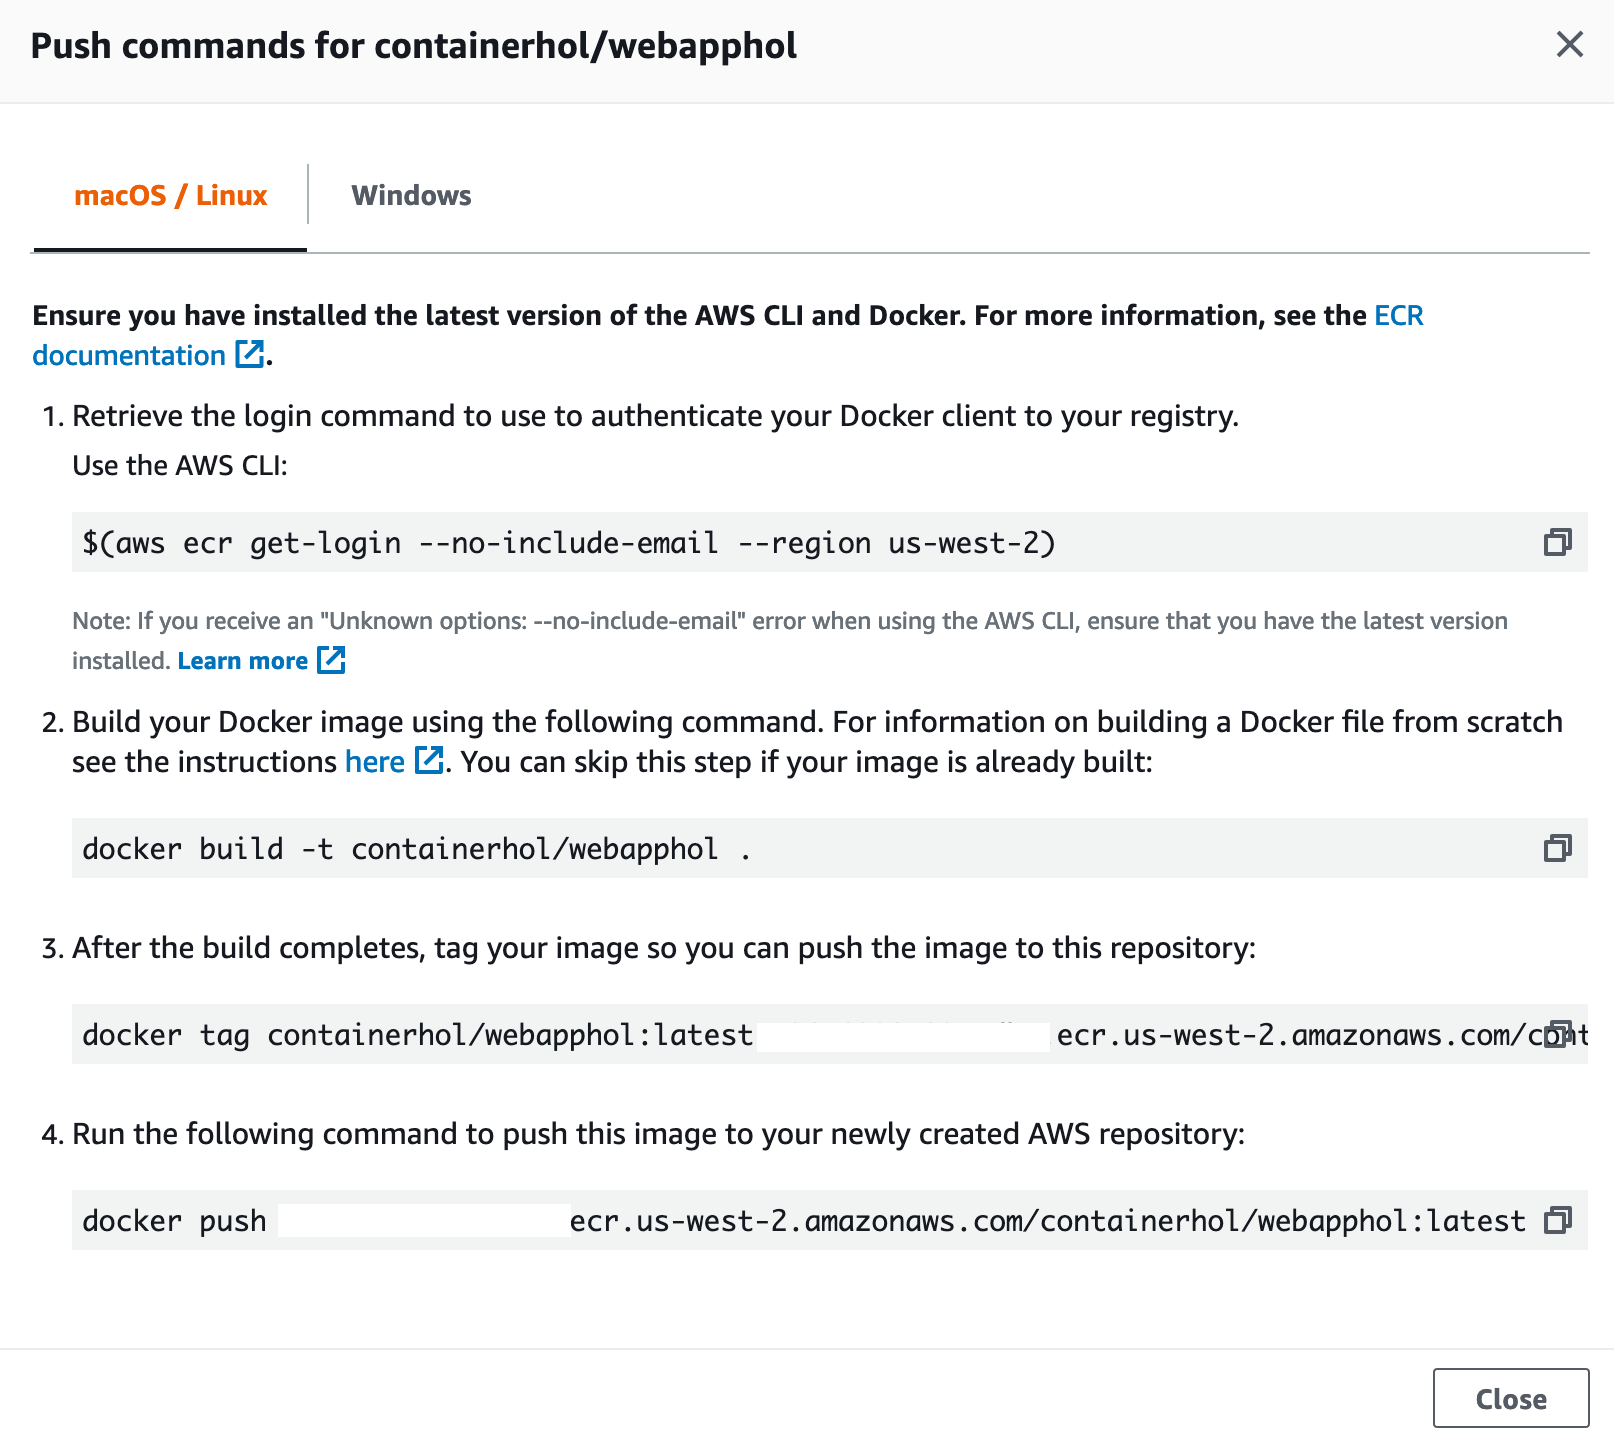
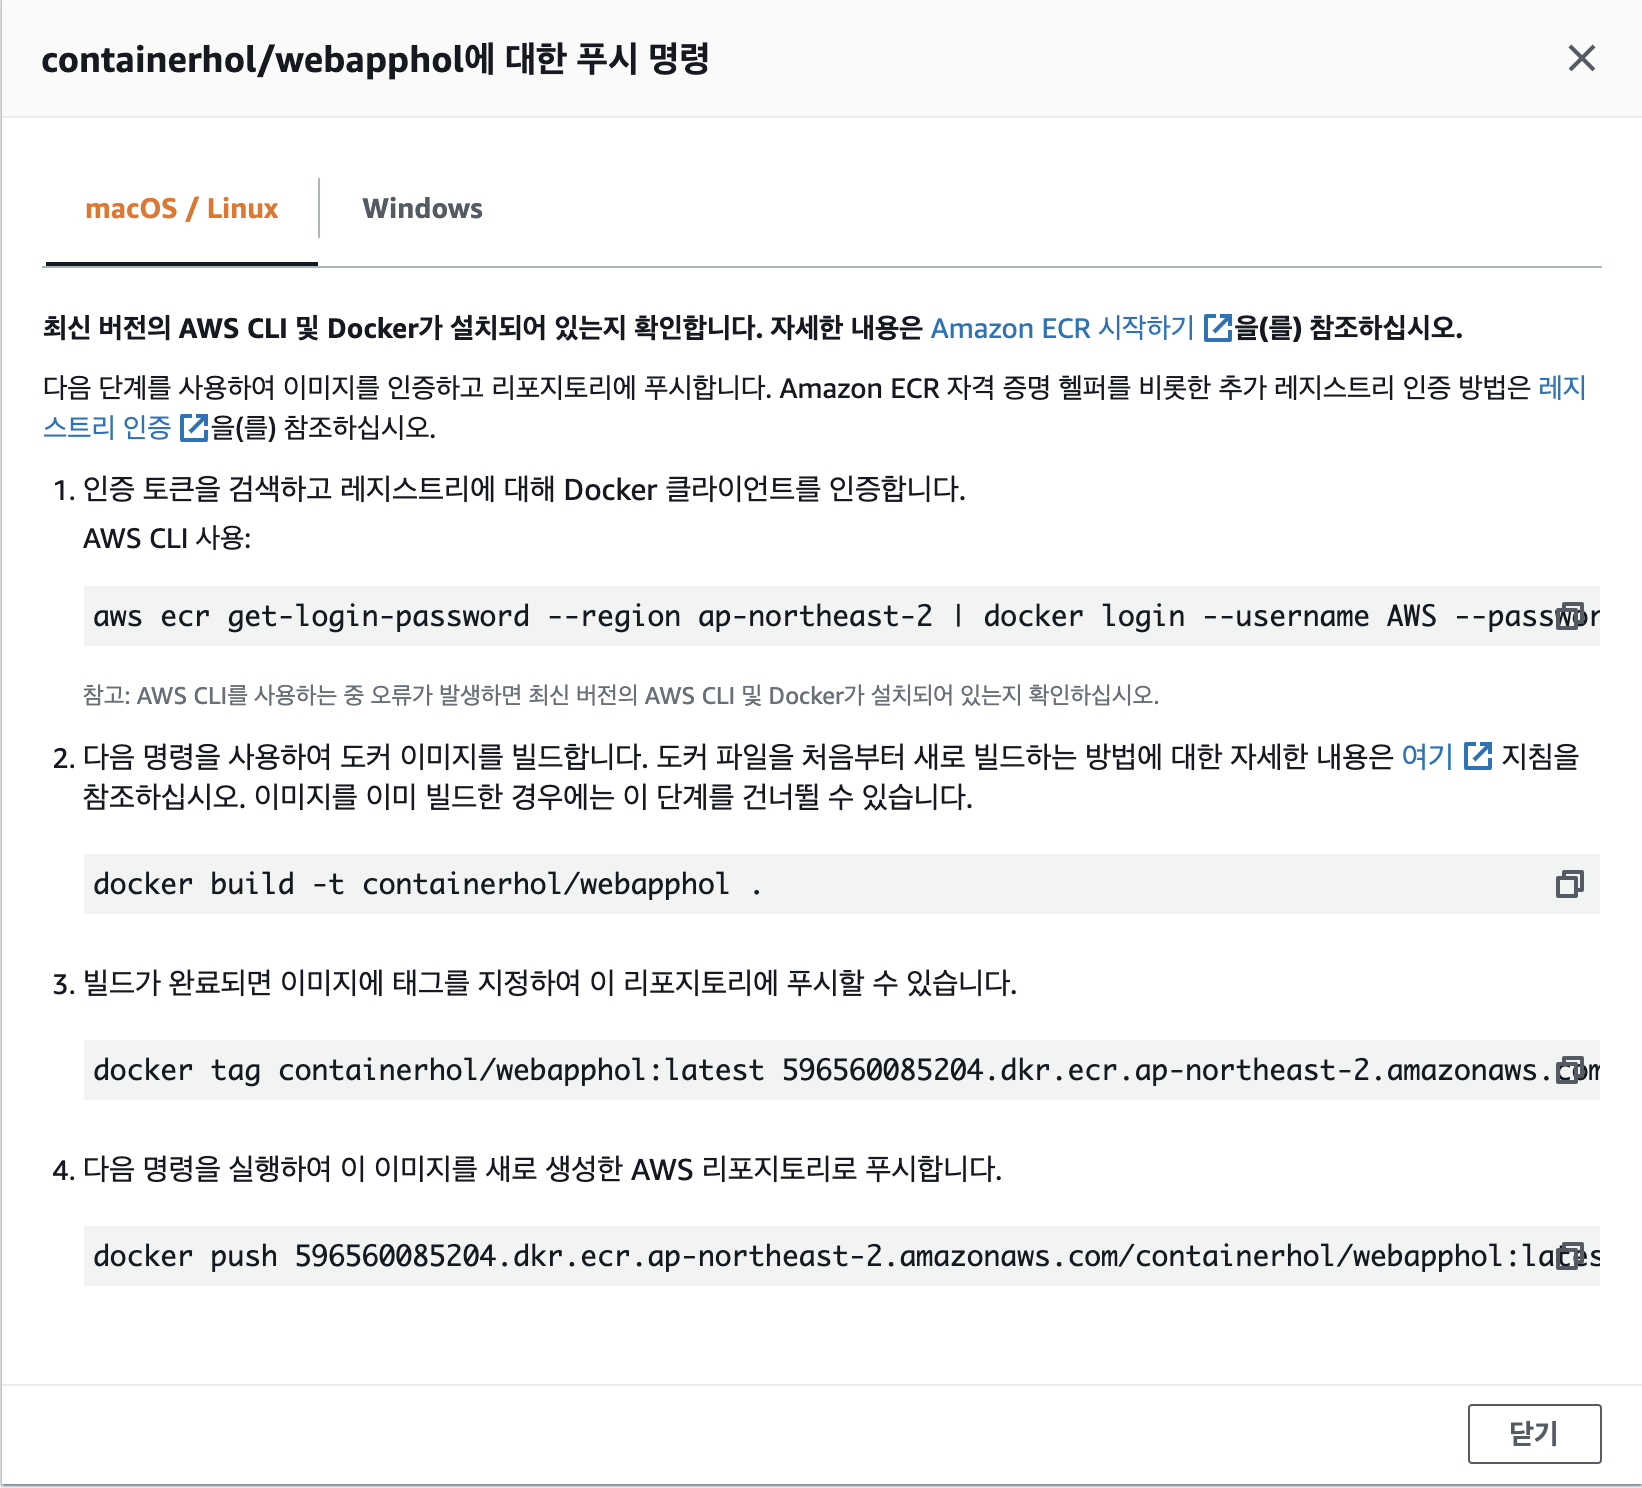
modify push command

diff --git a/content/1-2_ecr-vpc/create-ecr-repository.md b/content/1-2_ecr-vpc/create-ecr-repository.md
@@ -28,10 +28,10 @@ draft: false
 
 2. 앞에서 생성한 Cloud9의 워크스페이스에 접속하고 터미널 창을 엽니다. Cloud9 터미널 창에서 아래의 명령으를 통해서 ecr 레포지토리에 로그인을 합니다.
 
-    > 아래의 명령어를 "$"문자까지 포함하여 그대로 복사해서 Cloud9의 터미널 창에 붙여넣습니다. 키보드 단축키를 사용해서 복사하여 붙여넣습니다.
+    > 아래의 명령어를 별도의 편집기에 붙여넣고 account_id를 본인의 어카운트 id로 수정하여 Cloud9의 터미널 창에 붙여넣습니다. 키보드 단축키를 사용해서 복사하여 붙여넣습니다.
 
     ```bash
-    $(aws ecr get-login --no-include-email --region us-west-2)
+    aws ecr get-login-password --region us-west-2 | docker login --username AWS --password-stdin  <account_id>.dkr.ecr.us-west-2.amazonaws.com
     ```
 
 3. 다음으로는 docker hub에서 cloud9의 워크스페이스에 nginx 도커이미지를 내려받습니다.
